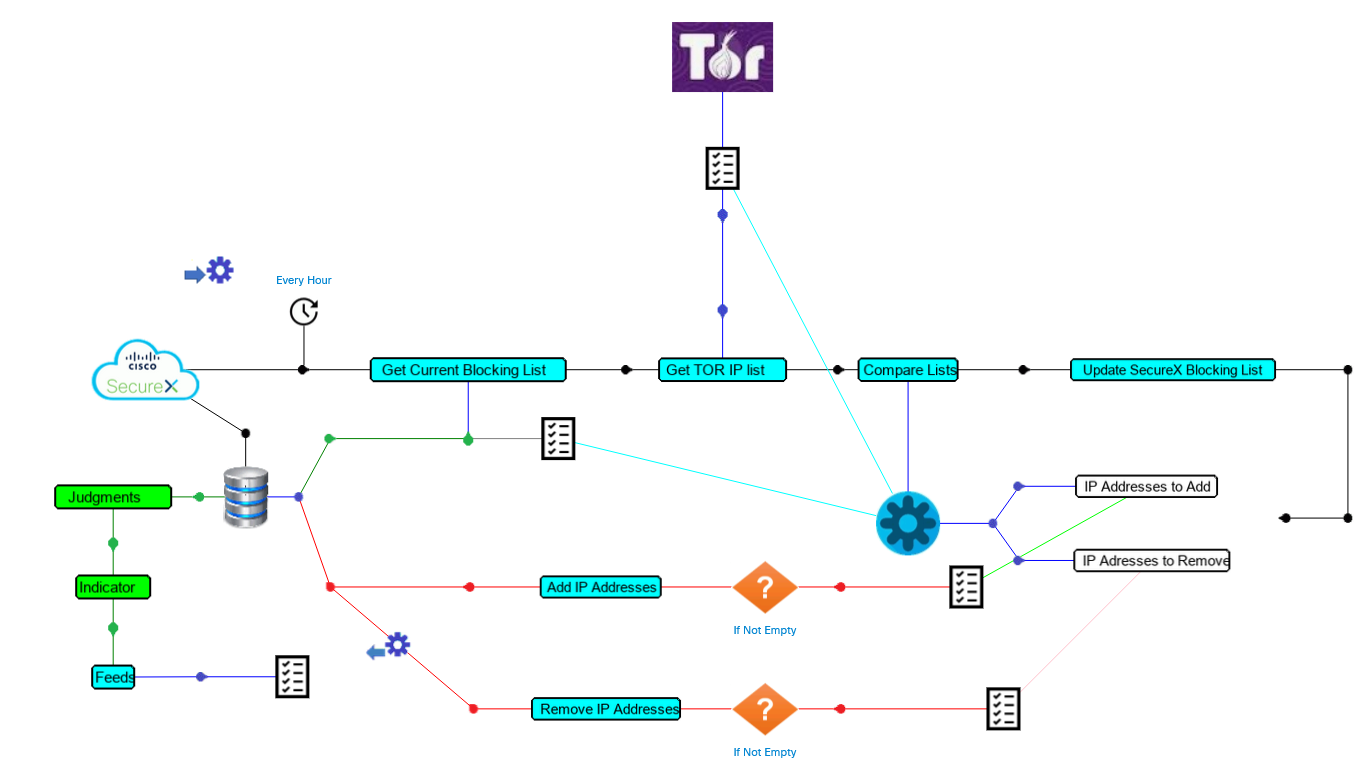
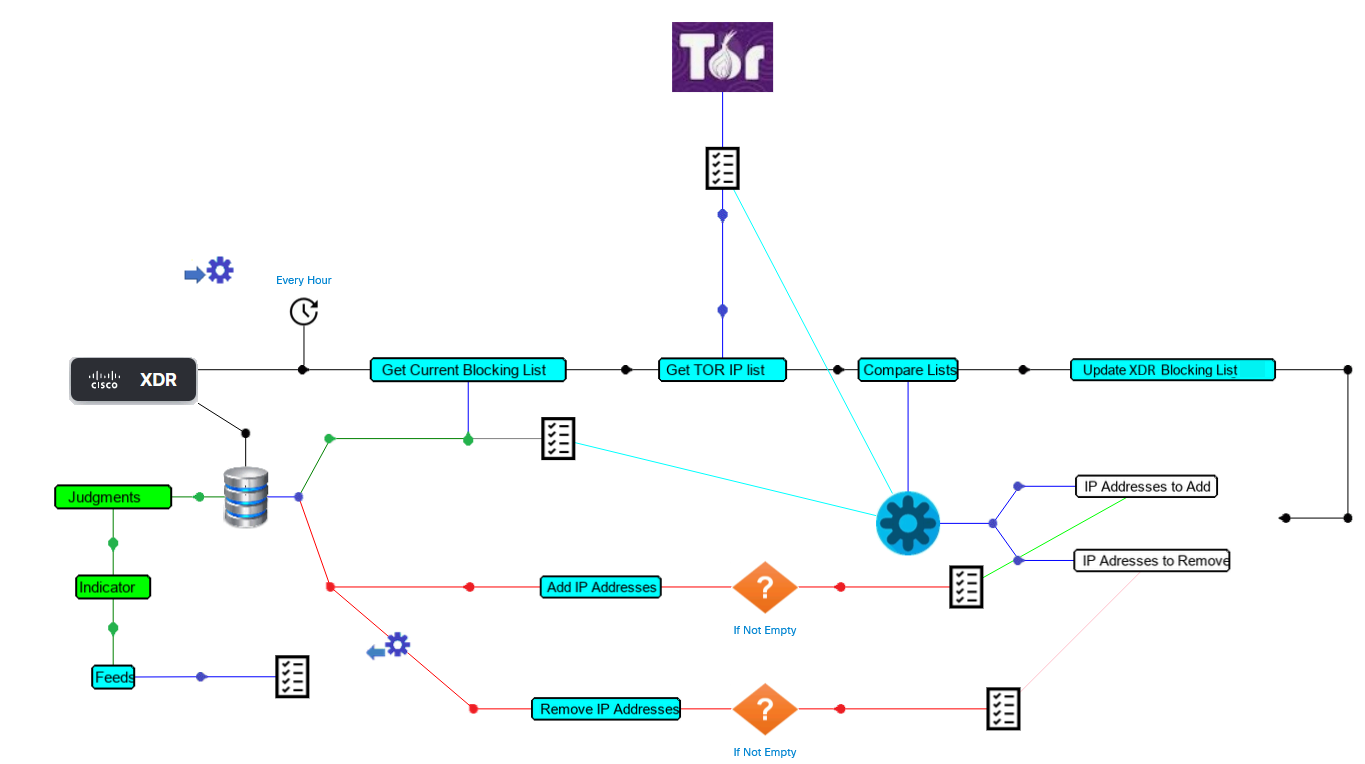
documentation update

Changed region(s): [[0.0308, 0.4215, 0.1538, 0.5419], [0.8308, 0.4516, 0.9231, 0.5118]]

diff --git a/500-SecureX_Workflow_examples/Workflows/TOR_IP_blocking_list_to_SecureX_feeds/readme.md b/500-SecureX_Workflow_examples/Workflows/TOR_IP_blocking_list_to_SecureX_feeds/readme.md
@@ -1,6 +1,6 @@
-# TOR BLOCKING LIST TO IPV4 SECUREX FEEDS
+# TOR BLOCKING LIST TO IPV4 XDR FEEDS
 
-This workflow read every hour the TOR IP blocking list at the following location https://check.torproject.org/torbulkexitlist . And update the Private Intell Judgment and then Update a public SecureX Feed which becomes availabale for Firewalls.
+This workflow read every hour the TOR IP blocking list at the following location https://check.torproject.org/torbulkexitlist . And update the Private Intell Judgment and then Update a public XDR Feed which becomes availabale for Firewalls.
 
 ---
 
@@ -17,7 +17,7 @@ This workflow read every hour the TOR IP blocking list at the following location
 * The following  workflow is used by this workflow:
 	* [Update judgments and public feeds in private intell](https://github.com/pcardotatgit/SecureX_Workflows_and_Stuffs/tree/master/500-SecureX_Workflow_examples/Workflows/update_judgments_in_private_intell)
 * The [targets](#targets) and [account keys](#account-keys)
-* The **Secure_Firewall_SecureX_Indicator_IPv4** indicator and the matching **Secure_Firewall_SecureX_Feed_IPv4** must already exist into the SecureX tenant. ( see : [Create Text Public Feeds for firewalls](https://github.com/pcardotatgit/SecureX_Workflows_and_Stuffs/tree/master/12-create_securex_blocking_lists_for_firewalls))
+* The **Secure_Firewall_SecureX_Indicator_IPv4** indicator and the matching **Secure_Firewall_SecureX_Feed_IPv4** must already exist into the XDR tenant. ( see : [Create Text Public Feeds for firewalls](https://github.com/pcardotatgit/SecureX_Workflows_and_Stuffs/tree/master/12-create_securex_blocking_lists_for_firewalls))
 ---
 
 ## Workflow Steps
@@ -26,7 +26,7 @@ This workflow read every hour the TOR IP blocking list at the following location
 	* Connects to the **https://check.torproject.org/torbulkexitlist** location and download the IP addresse List it contains
 	* Then for every IP address in the downloaded list, the workflow create a judgement into the Private Intelligence and link it to the **Secure_Firewall_SecureX_Indicator_IPv4** indicator, which is linked to the **Secure_Firewall_SecureX_Feed_IPv4**
 
-The final result is to update every hours the SecureX **Secure_Firewall_SecureX_Feed_IPv4** feed with the TOR entry / exit IP addresses.
+The final result is to update every hours the XDR **Secure_Firewall_SecureX_Feed_IPv4** feed with the TOR entry / exit IP addresses.
 
 ---
 
@@ -63,7 +63,7 @@ This IP address list in constantly updated.
 
 The recommendation for security administrators is to download this list every hours and deploy it as blocking rules into all company INTERNET firewalls.
 
-This is a perfect job for SecureX. And this is the purpose of the workflow described here.
+This is a perfect job for XDR. And this is the purpose of the workflow described here.
 
 This security recommendation is typically a good example of Security Action Human Team CAN'T acheive. We can't imagine to have in the security team someone who update Company firewalls every hours , night and day , with the TOR entry / exit IP addresse list.
 
@@ -74,15 +74,15 @@ This use case is a perfect example where automation is mandatory.
 The whole processes runt by this workflow are discribed here under.
 ![](./assets/img/tor-1.png)
 
-This workflow update a global SecureX variable named **generic list of ip addresses** . And this variable is consumed by the **Update Judgement List** subworkflow which synchronizes the SecureX Private Intelligence Judgments with it.
+This workflow update a global XDR variable named **generic list of ip addresses** . And this variable is consumed by the **Update Judgement List** subworkflow which synchronizes the XDR Private Intelligence Judgments with it.
 
 ![](./assets/img/tor-3.png)
 
-This modular architecture allows to create other IPv4 SecureX feed synchronization workflows, for other sources than TOR IP blocking List. 
+This modular architecture allows to create other IPv4 XDR feed synchronization workflows, for other sources than TOR IP blocking List. 
 
 Other workflows for other Public Sources of malicious IP addresses would be the same as this current workflow except the TOR HTTP Get part.
 
-The final result can be checked into the SecureX Judgements and Feeds.
+The final result can be checked into the XDR Judgements and Feeds.
 
 ![](./assets/img/tor-2.png)
 
